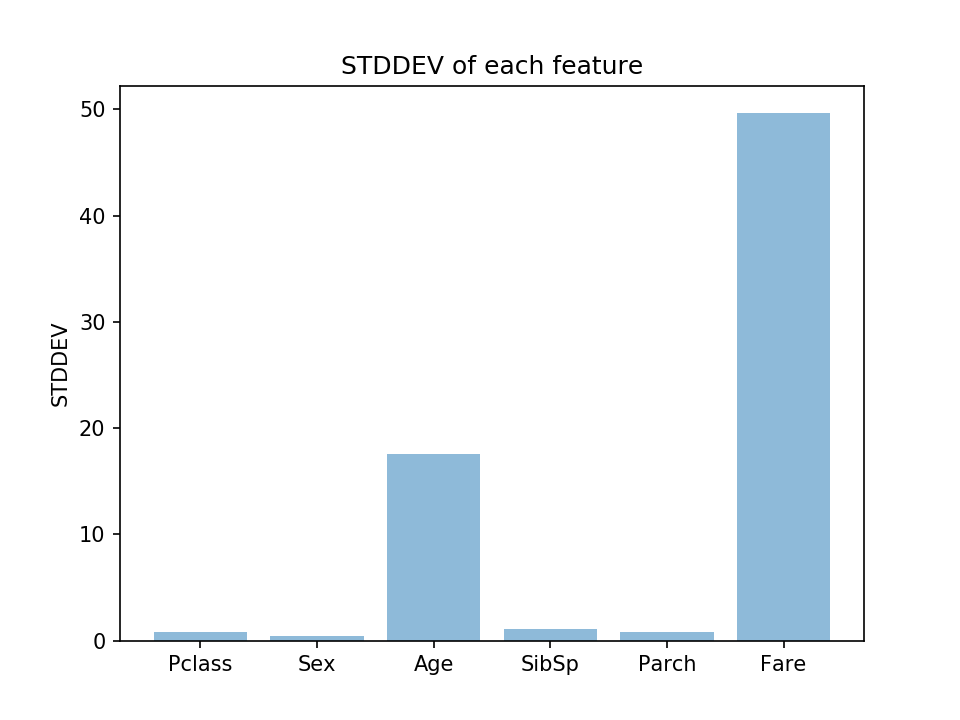
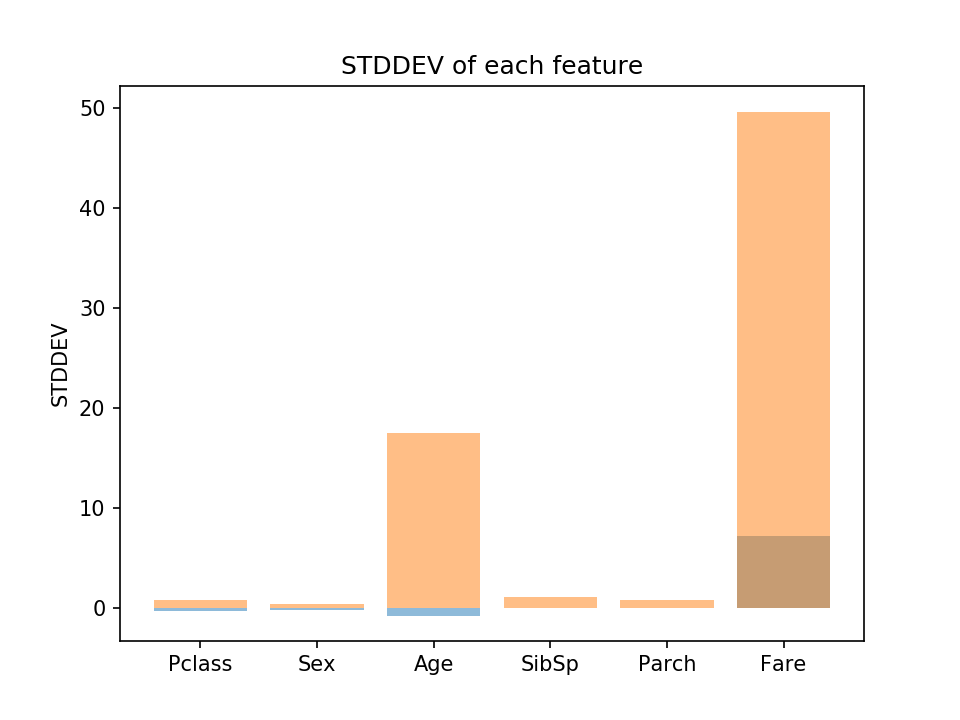
Doing CORRCOEF

diff --git a/HW1/dnn_1.py b/HW1/dnn_1.py
@@ -30,6 +30,36 @@ stddev_list = [] # standard deviation of each column
 features = ['Pclass', 'Sex', 'Age', 'SibSp', 'Parch', 'Fare']
 
 ################# NORMALIZE ############
+def correlation(feature_data, output_data):
+    feature_data = np.array(feature_data).astype(float)
+    output_data = np.array(output_data).astype(float)
+    coef = []
+
+    stddev_feature = np.std(feature_data, axis = 0)
+    stddev_output = np.std(output_data, axis = 0)
+    avg_feature = feature_data.mean(axis = 0)
+    avg_output = output_data.mean(axis = 0)
+
+    stddev_both = []
+    tmp = 0.0
+    for j in range(len(feature_data[0])):
+        tmp = 0.0
+        for i in range(len(feature_data)):
+            tmp += (feature_data[i][j] - stddev_feature[j]) * (output_data[i] - stddev_output)
+
+        tmp /= len(feature_data)
+        r = tmp / (stddev_feature[j] * stddev_output)
+        coef.append(tmp)
+
+    ypos = np.arange(len(features))
+    plt.bar(ypos, coef, align = 'center', alpha = 0.5)
+    plt.xticks(ypos, features)
+    plt.ylabel('CORRCOEF')
+    plt.title('CORRCOEF of features vs alive')
+    plt.savefig('CORRCOEF', dpi = 150)
+
+
+################# NORMALIZE ############
 
 learning_curve_n = []
 train_error_curve_n = []
@@ -45,7 +75,6 @@ def stddev(data):
     stddev_list = np.std(data, axis = 0)
 
     ypos = np.arange(len(features))
-    print('stddev_list ', stddev_list)
     plt.bar(ypos, stddev_list, align = 'center', alpha = 0.5)
     plt.xticks(ypos, features)
     plt.ylabel('STDDEV')
@@ -57,13 +86,11 @@ def norm_col(data, col):
     for_norm = data[:,[col]]
     for_norm = normalize(for_norm, axis = 0)
     data = np.concatenate((data[ :, : N_DIM - 1], for_norm), axis = 1)
-    print('normalize col 5: ', data)
     return data
 
 def norm_all(data):
     data = np.array(data).astype(float)
     data = normalize(data, axis = 0)
-    print('normalize all col: ', data)
     return data
 
 ################# FILE IO ##############
@@ -288,6 +315,8 @@ if __name__ == '__main__':
     test_input = extract(test_data, N_TEST_DATA, 1, 6)
     test_expected_output = extract(train_data, N_TEST_DATA, 0, 0)
 
+    correlation(train_input + test_input, train_expected_output + test_expected_output)
+
     ################## NORMALIZE  ############
     stddev(train_input + test_input)
     train_input_n = norm_col(train_input, 5)
@@ -299,6 +328,6 @@ if __name__ == '__main__':
     net = NN([N_DIM , N_UNIT_1, 1])
     random.seed(RANDOM_SEED)
     net.SGD(train_input, train_expected_output, N_EPOCH_LIMIT, N_BATCH_SIZE, LEARNING_RATE, test_input, test_expected_output, 0)
-    #net.SGD(train_input_n, train_expected_output, N_EPOCH_LIMIT, N_BATCH_SIZE, LEARNING_RATE, test_input_n, test_expected_output, 1)
-    #net.SGD(train_input_n_all, train_expected_output, N_EPOCH_LIMIT, N_BATCH_SIZE, LEARNING_RATE, test_input_n_all, test_expected_output, 2)
+    net.SGD(train_input_n, train_expected_output, N_EPOCH_LIMIT, N_BATCH_SIZE, LEARNING_RATE, test_input_n, test_expected_output, 1)
+    net.SGD(train_input_n_all, train_expected_output, N_EPOCH_LIMIT, N_BATCH_SIZE, LEARNING_RATE, test_input_n_all, test_expected_output, 2)
     make_graph()
